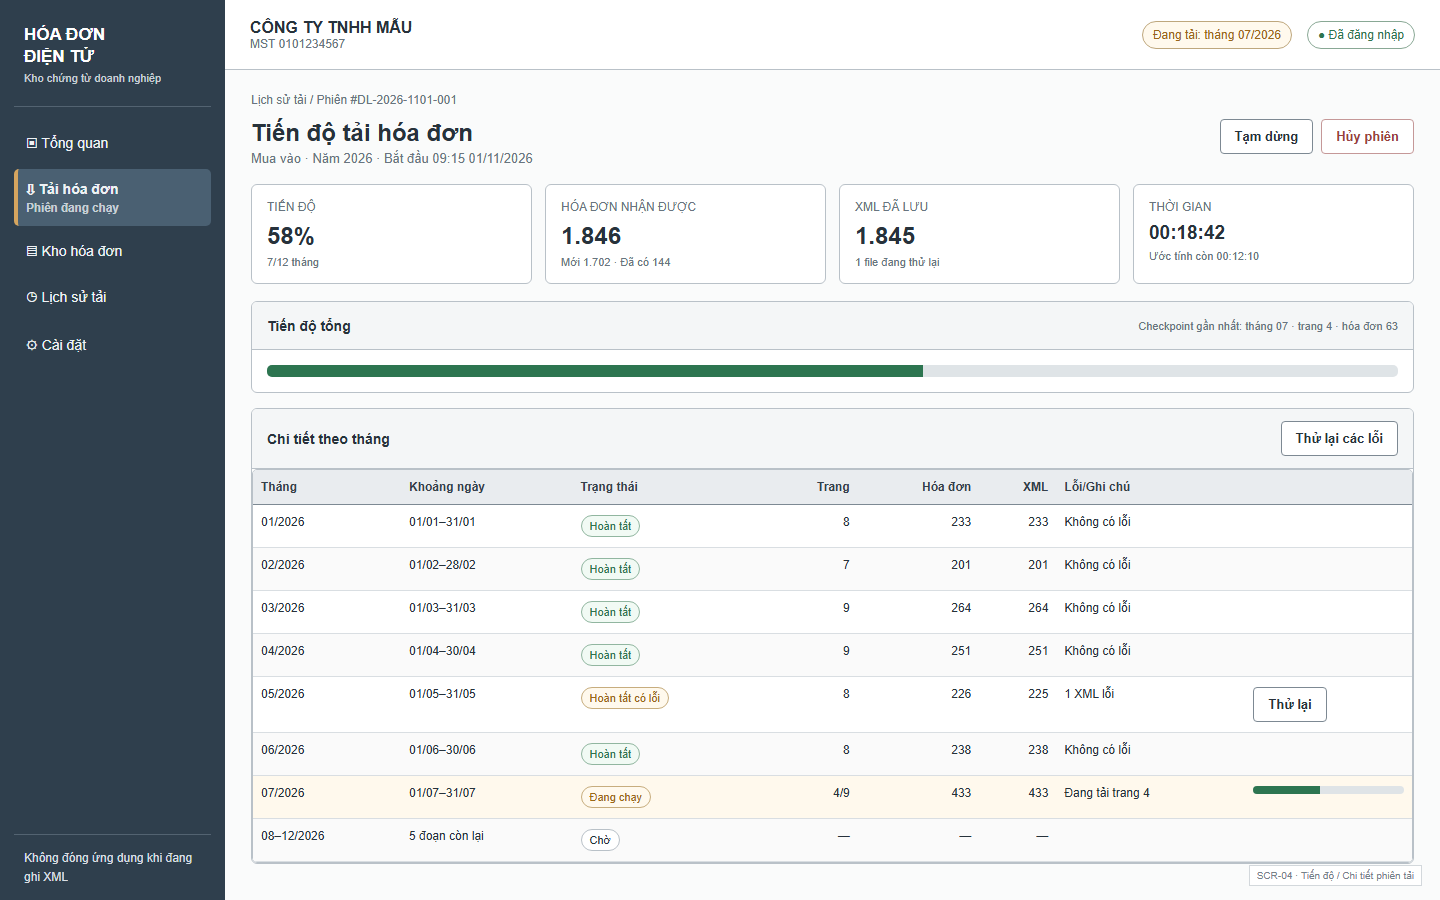
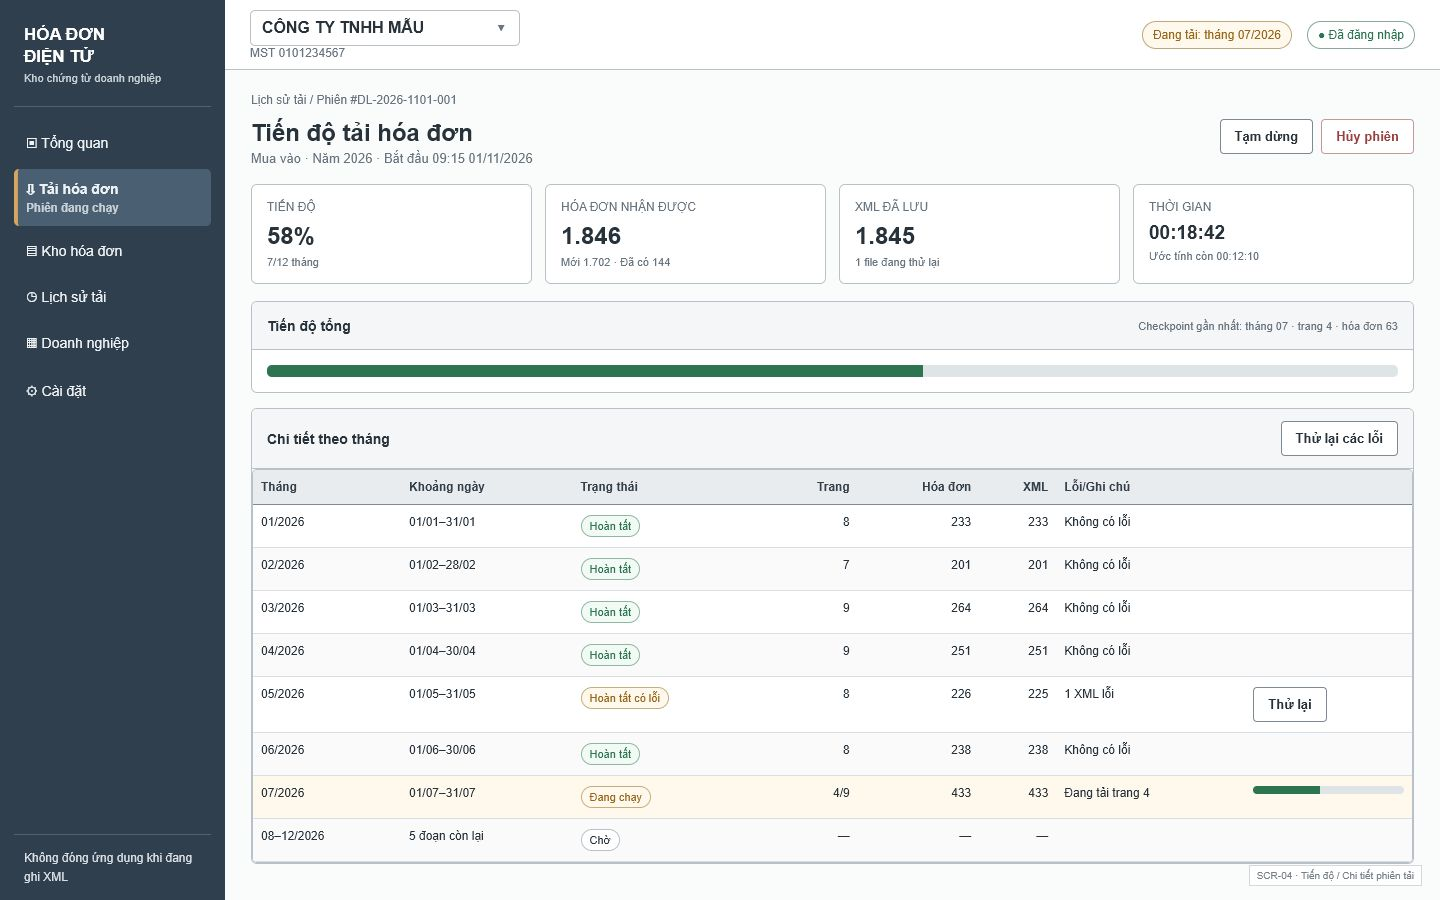
change licence

diff --git a/docs/wireframes/index.html b/docs/wireframes/index.html
@@ -45,6 +45,9 @@
     .app-main { display: grid; grid-template-rows: 70px 1fr; min-width: 0; }
     .app-header { border-bottom: 1px solid var(--line); display: flex; align-items: center; padding: 0 25px; gap: 15px; background: #fff; }
     .app-header .company { font-weight: bold; }
+    .app-header .company.service-company { cursor: pointer; border: 1px solid var(--line); border-radius: 5px; padding: 8px 34px 8px 11px; position: relative; background: #fff; min-width: 270px; }
+    .app-header .company.service-company::after { content: "▾"; position: absolute; right: 11px; top: 8px; color: var(--muted); }
+    .app-header .company.service-company:hover { border-color: var(--line-dark); background: #faf8f4; }
     .app-header .tax-code { color: var(--muted); font-size: 12px; }
     .header-spacer { flex: 1; }
     .session-status { border: 1px solid #89a895; color: var(--good); border-radius: 16px; padding: 6px 10px; font-size: 12px; }
@@ -117,6 +120,10 @@
     .compact-settings .panel-head { min-height: 42px; padding: 9px 15px; }
     .compact-settings .panel-body { padding: 11px 15px; }
     .compact-settings .storage-bar { margin: 8px 0; }
+    .mode-banner { display: flex; align-items: center; gap: 10px; border: 1px solid #91b6a0; background: #f1faf4; color: #285f43; border-radius: 5px; padding: 10px 13px; font-size: 12px; margin-bottom: 14px; }
+    .company-avatar { width: 34px; height: 34px; border-radius: 5px; display: grid; place-items: center; background: #e5e9ec; color: #40515d; font-weight: bold; }
+    .license-box { border: 1px dashed #9da8b1; background: #fafbfb; border-radius: 6px; padding: 18px; }
+    .readonly-note { border: 1px solid #cea2a2; background: #fff4f4; color: #7b3434; border-radius: 5px; padding: 10px 13px; font-size: 12px; }
     .login-screen { background: #eef1f3; display: grid; grid-template-rows: 76px 1fr 42px; }
     .login-top { background: #273746; color: #fff; display: flex; align-items: center; padding: 0 30px; gap: 12px; }
     .login-top b { font-size: 19px; }
@@ -150,6 +157,9 @@
     <a data-screen-link="SCR-07" href="?screen=SCR-07">07 Chứng từ</a>
     <a data-screen-link="SCR-08" href="?screen=SCR-08">08 Lịch sử</a>
     <a data-screen-link="SCR-09" href="?screen=SCR-09">09 Cài đặt</a>
+    <a data-screen-link="SCR-10" href="?screen=SCR-10">10 Doanh nghiệp</a>
+    <a data-screen-link="SCR-11" href="?screen=SCR-11">11 Thêm MST</a>
+    <a data-screen-link="SCR-12" href="?screen=SCR-12">12 Bản quyền</a>
     <span class="hint">HTML trao đổi kỹ thuật · 1440 × 900</span>
   </nav>
 
@@ -320,7 +330,7 @@
         <div class="content compact-settings">
           <div class="page-title"><div><h1>Cài đặt</h1><p>Thông tin doanh nghiệp, lưu trữ, sao lưu và kết nối</p></div><div class="page-actions"><a class="button primary">Lưu thay đổi</a></div></div>
           <div class="grid-2" style="grid-template-columns:260px 1fr">
-            <div class="panel"><div class="list-row" style="grid-template-columns:1fr"><b>Doanh nghiệp</b></div><div class="list-row" style="grid-template-columns:1fr;background:#f1f3f4"><b>Lưu trữ và sao lưu</b></div><div class="list-row" style="grid-template-columns:1fr"><b>Kết nối cổng Thuế</b></div><div class="list-row" style="grid-template-columns:1fr"><b>Nhật ký và chẩn đoán</b></div><div class="list-row" style="grid-template-columns:1fr"><b>Thông tin ứng dụng</b></div></div>
+            <div class="panel"><div class="list-row" style="grid-template-columns:1fr"><b>Doanh nghiệp đang hoạt động</b></div><div class="list-row" style="grid-template-columns:1fr;background:#f1f3f4"><b>Lưu trữ và sao lưu</b></div><div class="list-row" style="grid-template-columns:1fr"><b>Kết nối cổng Thuế</b></div><div class="list-row" style="grid-template-columns:1fr"><b>Nhật ký và chẩn đoán</b></div><a class="list-row" style="grid-template-columns:1fr;color:inherit;text-decoration:none" href="?screen=SCR-12"><b>Bản quyền ứng dụng →</b></a><div class="list-row" style="grid-template-columns:1fr"><b>Thông tin ứng dụng</b></div></div>
             <div>
               <div class="panel"><div class="panel-head"><b>Thư mục kho dữ liệu</b></div><div class="panel-body"><div class="field"><label>Đường dẫn gốc</label><div style="display:grid;grid-template-columns:1fr 110px;gap:8px"><div class="input">D:\DuLieu\HoaDonDienTu\0101234567</div><a class="button">Chọn thư mục</a></div></div><div class="alert" style="margin-top:12px;margin-bottom:0">Đã kiểm tra quyền đọc/ghi · Còn trống 184 GB</div></div></div>
               <div class="panel"><div class="panel-head"><b>Dung lượng sử dụng</b><a class="button" style="margin-left:auto">Mở thư mục kho</a></div><div class="panel-body"><div class="storage-bar"><span>Database</span><div class="progress"><span style="width:8%"></span></div><b class="right">84 MB</b></div><div class="storage-bar"><span>XML</span><div class="progress"><span style="width:72%"></span></div><b class="right">7,4 GB</b></div><div class="storage-bar"><span>PDF đã tạo</span><div class="progress"><span style="width:24%"></span></div><b class="right">2,1 GB</b></div><div class="storage-bar"><span>File xuất</span><div class="progress"><span style="width:12%"></span></div><b class="right">1,2 GB</b></div></div></div>
@@ -333,6 +343,81 @@
     </div><div class="screen-ref">SCR-09 · Cài đặt</div>
   </section>
 
+  <section class="screen" data-screen="SCR-10" hidden>
+    <div class="app-shell">
+      <aside class="sidebar"><div class="brand"><b>HÓA ĐƠN<br>ĐIỆN TỬ</b><span>Bản dịch vụ kế toán</span></div><nav class="side-nav"><a href="?screen=SCR-02">▣ Tổng quan</a><a href="?screen=SCR-03">⇩ Tải hóa đơn</a><a href="?screen=SCR-05">▤ Kho hóa đơn</a><a href="?screen=SCR-08">◷ Lịch sử tải</a><a class="active" href="?screen=SCR-10">▦ Doanh nghiệp</a><a href="?screen=SCR-09">⚙ Cài đặt</a></nav><div class="sidebar-bottom">ServiceMode · Licence hợp lệ<br>Chỉ 1 MST hoạt động</div></aside>
+      <main class="app-main">
+        <header class="app-header"><div><div class="company service-company" data-company-switch>CÔNG TY TNHH MẪU</div><div class="tax-code">MST 0101234567 · Đang hoạt động</div></div><div class="header-spacer"></div><span class="tag good">Bản dịch vụ</span><span class="session-status">● Đã đăng nhập</span></header>
+        <div class="content">
+          <div class="page-title"><div><h1>Quản lý doanh nghiệp</h1><p>Chọn một MST để làm việc; mỗi doanh nghiệp sử dụng kho dữ liệu riêng</p></div><div class="page-actions"><a class="button" href="?screen=SCR-09">Cài đặt kho</a><a class="button primary" href="?screen=SCR-11">Thêm doanh nghiệp</a></div></div>
+          <div class="mode-banner"><b>✓ Licence dịch vụ đang hoạt động</b><span>Không giới hạn số MST trên máy này · chỉ một MST được mở tại một thời điểm</span><a href="?screen=SCR-12" style="margin-left:auto;color:inherit">Xem bản quyền</a></div>
+          <div class="cards">
+            <div class="card"><div class="label">Doanh nghiệp đang quản lý</div><div class="value">18</div><div class="sub">Không giới hạn theo licence</div></div>
+            <div class="card"><div class="label">Đã cập nhật trong tháng</div><div class="value">14</div><div class="sub">4 doanh nghiệp cần kiểm tra</div></div>
+            <div class="card"><div class="label">Tổng dung lượng</div><div class="value">86,4 GB</div><div class="sub">Các kho được cách ly</div></div>
+            <div class="card"><div class="label">MST đang hoạt động</div><div class="value" style="font-size:17px">0101234567</div><div class="sub">Công ty TNHH Mẫu</div></div>
+          </div>
+          <div class="panel"><div class="panel-body"><div class="toolbar" style="margin:0"><div class="input wide placeholder" style="width:420px">Tìm theo tên doanh nghiệp hoặc mã số thuế</div><div class="select" style="width:190px">Mọi trạng thái ▾</div><a class="button">Tìm kiếm</a><span class="muted small" style="margin-left:auto">Số liệu tổng quan được lưu đệm khi đóng kho</span></div></div></div>
+          <div class="table-wrap"><table><thead><tr><th>Doanh nghiệp</th><th>MST</th><th>Kỳ tải gần nhất</th><th>Cập nhật</th><th class="right">Hóa đơn</th><th class="right">Dung lượng</th><th>Trạng thái</th><th>Thao tác</th></tr></thead><tbody>
+            <tr><td><div style="display:flex;gap:9px"><span class="company-avatar">M</span><div><b>Công ty TNHH Mẫu</b><div class="muted small">D:\DuLieu\HDDT\0101234567</div></div></div></td><td>0101234567</td><td>Tháng 10/2026</td><td>01/11/2026 09:42</td><td class="right">24.862</td><td class="right">10,8 GB</td><td><span class="tag good">Đang làm việc</span></td><td><a class="button" href="?screen=SCR-02">Mở</a></td></tr>
+            <tr><td><div style="display:flex;gap:9px"><span class="company-avatar">A</span><div><b>Công ty Cổ phần An Phú</b><div class="muted small">D:\DuLieu\HDDT\0312345678</div></div></div></td><td>0312345678</td><td>Quý 3/2026</td><td>31/10/2026 16:20</td><td class="right">18.415</td><td class="right">7,6 GB</td><td><span class="tag warn">Chưa đăng nhập</span></td><td><a class="button">Làm việc</a></td></tr>
+            <tr><td><div style="display:flex;gap:9px"><span class="company-avatar">B</span><div><b>Công ty TNHH Bình Minh</b><div class="muted small">E:\KhachHang\0209988776</div></div></div></td><td>0209988776</td><td>Tháng 10/2026</td><td>29/10/2026 11:05</td><td class="right">9.208</td><td class="right">4,1 GB</td><td><span class="tag bad">Cần xử lý</span></td><td><a class="button">Chi tiết</a></td></tr>
+            <tr><td><div style="display:flex;gap:9px"><span class="company-avatar">T</span><div><b>Công ty Thương mại Thành Công</b><div class="muted small">D:\DuLieu\HDDT\0105566778</div></div></div></td><td>0105566778</td><td>Năm 2025</td><td>15/10/2026 08:30</td><td class="right">31.704</td><td class="right">13,2 GB</td><td><span class="tag">Sẵn sàng</span></td><td><a class="button">Làm việc</a></td></tr>
+          </tbody></table></div>
+          <div class="pager"><span>Hiển thị 1–4 trong 18 doanh nghiệp</span><span><a class="button disabled">Trước</a> <a class="button">Sau</a></span></div>
+        </div>
+      </main>
+    </div><div class="screen-ref">SCR-10 · Quản lý doanh nghiệp</div>
+  </section>
+
+  <section class="screen" data-screen="SCR-11" hidden>
+    <div class="app-shell">
+      <aside class="sidebar"><div class="brand"><b>HÓA ĐƠN<br>ĐIỆN TỬ</b><span>Bản dịch vụ kế toán</span></div><nav class="side-nav"><a href="?screen=SCR-02">▣ Tổng quan</a><a href="?screen=SCR-03">⇩ Tải hóa đơn</a><a href="?screen=SCR-05">▤ Kho hóa đơn</a><a href="?screen=SCR-08">◷ Lịch sử tải</a><a class="active" href="?screen=SCR-10">▦ Doanh nghiệp</a><a href="?screen=SCR-09">⚙ Cài đặt</a></nav><div class="sidebar-bottom">ServiceMode · Licence hợp lệ<br>Tạo một kho độc lập</div></aside>
+      <main class="app-main">
+        <header class="app-header"><div><div class="company service-company" data-company-switch>CÔNG TY TNHH MẪU</div><div class="tax-code">MST 0101234567 · Đang hoạt động</div></div><div class="header-spacer"></div><span class="tag good">Bản dịch vụ</span><span class="session-status">● Đã đăng nhập</span></header>
+        <div class="content">
+          <div class="breadcrumb"><a href="?screen=SCR-10">Quản lý doanh nghiệp</a> / Thêm doanh nghiệp</div>
+          <div class="page-title"><div><h1>Thêm doanh nghiệp</h1><p>Tạo hồ sơ và kho dữ liệu riêng cho một mã số thuế</p></div><div class="page-actions"><a class="button" href="?screen=SCR-10">Hủy</a><a class="button primary" href="?screen=SCR-01">Tạo và chuyển sang MST này</a></div></div>
+          <div class="grid-2" style="grid-template-columns:1.25fr .75fr">
+            <div>
+              <div class="panel"><div class="panel-head"><b>1. Thông tin doanh nghiệp</b><span class="tag" style="margin-left:auto">Bắt buộc</span></div><div class="panel-body"><div class="field-grid"><div class="field"><label>Mã số thuế</label><div class="input">0319988776</div><span class="muted small">Dùng để kiểm tra phiên đăng nhập và cách ly kho</span></div><div class="field"><label>Tên hiển thị</label><div class="input">Công ty TNHH Minh Long</div><span class="muted small">Có thể cập nhật sau khi đăng nhập</span></div></div></div></div>
+              <div class="panel"><div class="panel-head"><b>2. Kho dữ liệu riêng</b></div><div class="panel-body"><div class="field"><label>Thư mục kho</label><div style="display:grid;grid-template-columns:1fr 120px;gap:8px"><div class="input">D:\DuLieu\HDDT\0319988776</div><a class="button">Chọn thư mục</a></div></div><div class="alert" style="margin-top:13px;margin-bottom:0">Thư mục sẽ chứa <b>company.db</b>, XML, PDF cache, file xuất, bản sao lưu và log của riêng MST 0319988776.</div></div></div>
+              <div class="panel"><div class="panel-head"><b>3. Kiểm tra trước khi tạo</b></div><div class="panel-body"><div class="list-row" style="grid-template-columns:30px 1fr 100px"><b>✓</b><span>MST chưa tồn tại trong danh mục</span><span class="tag good">Hợp lệ</span></div><div class="list-row" style="grid-template-columns:30px 1fr 100px"><b>✓</b><span>Thư mục có quyền đọc/ghi và còn trống 184 GB</span><span class="tag good">Hợp lệ</span></div><div class="list-row" style="grid-template-columns:30px 1fr 100px"><b>✓</b><span>Licence dịch vụ đang hoạt động trên máy này</span><span class="tag good">Hợp lệ</span></div></div></div>
+            </div>
+            <div>
+              <div class="panel"><div class="panel-head"><b>Sau khi tạo</b></div><div class="panel-body"><ol class="small" style="line-height:2;margin:0;padding-left:20px"><li>Dừng an toàn tác vụ của MST hiện tại nếu có.</li><li>Xóa token hiện tại khỏi bộ nhớ.</li><li>Đóng SQLite của MST hiện tại.</li><li>Tạo và mở kho 0319988776.</li><li>Mở SCR-01 để đăng nhập cổng Thuế.</li><li>Chỉ chấp nhận phiên có đúng MST 0319988776.</li></ol></div></div>
+              <div class="readonly-note"><b>Không lưu tài khoản hoặc mật khẩu.</b><br>Việc thêm hồ sơ chỉ tạo kho dữ liệu; người dùng vẫn phải đăng nhập thủ công và tự nhập CAPTCHA.</div>
+            </div>
+          </div>
+        </div>
+      </main>
+    </div><div class="screen-ref">SCR-11 · Thêm / sửa doanh nghiệp</div>
+  </section>
+
+  <section class="screen" data-screen="SCR-12" hidden>
+    <div class="app-shell">
+      <aside class="sidebar"><div class="brand"><b>HÓA ĐƠN<br>ĐIỆN TỬ</b><span>Kho chứng từ doanh nghiệp</span></div><nav class="side-nav"><a href="?screen=SCR-02">▣ Tổng quan</a><a href="?screen=SCR-03">⇩ Tải hóa đơn</a><a href="?screen=SCR-05">▤ Kho hóa đơn</a><a href="?screen=SCR-08">◷ Lịch sử tải</a><a class="active" href="?screen=SCR-09">⚙ Cài đặt</a></nav><div class="sidebar-bottom">Phiên bản ứng dụng 1.1<br>Chế độ chuẩn</div></aside>
+      <main class="app-main">
+        <header class="app-header"><div><div class="company">CÔNG TY TNHH MẪU</div><div class="tax-code">MST 0101234567</div></div><div class="header-spacer"></div><span class="session-status">● Đã đăng nhập</span></header>
+        <div class="content">
+          <div class="breadcrumb"><a href="?screen=SCR-09">Cài đặt</a> / Bản quyền</div>
+          <div class="page-title"><div><h1>Bản quyền ứng dụng</h1><p>Kích hoạt licence được nhà cung cấp cấp cho máy này</p></div><div class="page-actions"><a class="button" href="?screen=SCR-09">Quay lại cài đặt</a></div></div>
+          <div class="grid-2" style="grid-template-columns:.8fr 1.2fr">
+            <div>
+              <div class="panel"><div class="panel-head"><b>Trạng thái hiện tại</b></div><div class="panel-body"><div style="display:flex;align-items:center;gap:12px;margin-bottom:16px"><span class="company-avatar">S</span><div><b>Chế độ chuẩn</b><div class="muted small">Không có licence mở rộng trên máy này</div></div></div><div class="kv"><div class="k">Thiết bị</div><div>DESKTOP-KETOAN-01</div><div class="k">Mã máy</div><div>84B2-••••-19C7</div><div class="k">Xác thực gần nhất</div><div>Chưa kích hoạt</div><div class="k">Phiên bản</div><div>1.1.0 · Schema v1</div></div></div></div>
+              <div class="alert">Mục kích hoạt luôn hiển thị. Các chức năng tương ứng với licence chỉ xuất hiện sau khi key được máy chủ xác thực thành công.</div>
+            </div>
+            <div>
+              <div class="panel"><div class="panel-head"><b>Kích hoạt licence</b><span class="tag" style="margin-left:auto">Yêu cầu Internet</span></div><div class="panel-body"><div class="license-box"><div class="field"><label>Licence key</label><div class="input" style="font-family:Consolas,monospace;letter-spacing:1px">HDDT-SVC-••••-••••-••••</div><span class="muted small">Key được kiểm tra trực tuyến và gắn với máy này. Không gửi MST hoặc dữ liệu hóa đơn.</span></div><div style="display:flex;justify-content:flex-end;gap:8px;margin-top:15px"><a class="button">Kiểm tra kết nối</a><a class="button primary" href="?screen=SCR-10">Kích hoạt</a></div></div></div></div>
+              <div class="panel"><div class="panel-head"><b>Dữ liệu gửi khi kích hoạt</b></div><div class="panel-body"><table><tbody><tr><td><b>Licence key</b></td><td>Xác định quyền đã mua</td></tr><tr><td><b>Mã máy đã băm</b></td><td>Ràng buộc licence với thiết bị</td></tr><tr><td><b>Phiên bản ứng dụng</b></td><td>Kiểm tra tương thích entitlement</td></tr><tr><td><b>Không gửi</b></td><td>MST, danh sách khách hàng, hóa đơn, token Thuế, đường dẫn kho</td></tr></tbody></table></div></div>
+              <div class="panel"><div class="panel-head"><b>Sau khi kích hoạt</b></div><div class="panel-body small">Ứng dụng kiểm tra chữ ký, lưu entitlement được bảo vệ theo máy và tự mở các chức năng được cấp phép mà không cần cài đặt lại. Khi máy chủ tạm thời không truy cập được, licence đã xác thực có thể tiếp tục hoạt động tối đa 30 ngày.</div></div>
+            </div>
+          </div>
+        </div>
+      </main>
+    </div><div class="screen-ref">SCR-12 · Kích hoạt / quản lý licence</div>
+  </section>
+
   <script>
     (function () {
       var params = new URLSearchParams(window.location.search);
@@ -340,6 +425,28 @@
       var capture = params.get('capture') === '1';
       var available = Array.prototype.map.call(document.querySelectorAll('[data-screen]'), function (el) { return el.getAttribute('data-screen'); });
       if (available.indexOf(screen) < 0) screen = 'SCR-02';
+      if (screen !== 'SCR-12') {
+        document.querySelectorAll('.app-header .company').forEach(function (el) {
+          el.classList.add('service-company');
+          el.setAttribute('data-company-switch', '');
+          el.setAttribute('title', 'Mở danh sách doanh nghiệp');
+          el.setAttribute('tabindex', '0');
+        });
+        document.querySelectorAll('.side-nav').forEach(function (nav) {
+          if (nav.querySelector('a[href*="SCR-10"]')) return;
+          var settings = nav.querySelector('a[href*="SCR-09"]');
+          var companyLink = document.createElement('a');
+          companyLink.href = '?screen=SCR-10';
+          companyLink.textContent = '▦ Doanh nghiệp';
+          nav.insertBefore(companyLink, settings);
+        });
+      }
+      document.querySelectorAll('[data-company-switch]').forEach(function (el) {
+        el.addEventListener('click', function () { window.location.href = '?screen=SCR-10'; });
+        el.addEventListener('keydown', function (event) {
+          if (event.key === 'Enter' || event.key === ' ') window.location.href = '?screen=SCR-10';
+        });
+      });
       if (capture) document.body.classList.add('capture');
       document.querySelectorAll('[data-screen]').forEach(function (el) { el.hidden = el.getAttribute('data-screen') !== screen; });
       document.querySelectorAll('[data-screen-link]').forEach(function (el) { if (el.getAttribute('data-screen-link') === screen) el.classList.add('active'); });

diff --git a/docs/wireframes/README.md b/docs/wireframes/README.md
@@ -34,6 +34,9 @@ index.html?screen=SCR-05&capture=1
 | SCR-07 | Xem chứng từ XML/PDF | [Mở](index.html?screen=SCR-07) | [Ảnh](png/SCR-07-viewer.png) |
 | SCR-08 | Lịch sử tải | [Mở](index.html?screen=SCR-08) | [Ảnh](png/SCR-08-history.png) |
 | SCR-09 | Cài đặt | [Mở](index.html?screen=SCR-09) | [Ảnh](png/SCR-09-settings.png) |
+| SCR-10 | Quản lý doanh nghiệp | [Mở](index.html?screen=SCR-10) | [Ảnh](png/SCR-10-companies.png) |
+| SCR-11 | Thêm/sửa doanh nghiệp | [Mở](index.html?screen=SCR-11) | [Ảnh](png/SCR-11-company-edit.png) |
+| SCR-12 | Kích hoạt/quản lý licence | [Mở](index.html?screen=SCR-12) | [Ảnh](png/SCR-12-license.png) |
 
 ## Luồng tham chiếu
 
@@ -46,6 +49,13 @@ SCR-01 Đăng nhập
         └─> SCR-09 Cài đặt
 
 SCR-04 --token hết hạn--> SCR-01 --đăng nhập lại--> SCR-04/checkpoint
+
+StandardMode: SCR-09 --> SCR-12 Kích hoạt licence
+                              └─> SCR-10 Quản lý doanh nghiệp
+                                      ├─> SCR-11 Thêm/sửa doanh nghiệp --> SCR-01 Đăng nhập
+                                      └─> SCR-02 Tổng quan của MST được chọn
+
+SCR-02..09 --bộ chọn MST--> SCR-10 --chuyển MST an toàn--> SCR-02
 ```
 
 ## Quy ước
@@ -54,9 +64,11 @@ SCR-04 --token hết hạn--> SCR-01 --đăng nhập lại--> SCR-04/checkpoint
 - Dữ liệu doanh nghiệp/hóa đơn trong wireframe là dữ liệu minh họa.
 - Thanh điều hướng bên trái là phương án đã được chọn.
 - XML được lưu tự động; PDF xuất hiện sau khi người dùng xem hoặc in.
+- SCR-02 đến SCR-11 mô tả ServiceMode với bộ chọn MST; SCR-12 mô tả điểm kích hoạt luôn thấy trong StandardMode.
+- Mỗi MST chỉ dùng một thư mục và SQLite riêng; wireframe không có màn hình trộn hóa đơn nhiều doanh nghiệp.
+- Chuyển MST yêu cầu dừng an toàn tác vụ và đóng phiên/database hiện tại trước khi mở kho mới.
 - Mã `SCR-xx` phải được giữ nhất quán giữa SRS, ticket triển khai, test case và UI automation.
 
 ## Cập nhật ảnh PNG
 
 `index.html` là nguồn duy nhất. Sau khi sửa HTML, xuất lại PNG bằng Chrome/Edge headless ở kích thước 1440 × 900 với URL `?screen=SCR-xx&capture=1`. Không chỉnh sửa PNG thủ công vì sẽ làm hai định dạng không đồng bộ.
-

diff --git a/docs/README.md b/docs/README.md
@@ -8,6 +8,8 @@ Index of where context lives. Keep files short; link rather than duplicate.
 - [Wireframe HTML tương tác](wireframes/index.html)
 - [Danh mục wireframe PNG](wireframes/README.md)
 
+SRS và wireframe hiện mô tả cả `StandardMode` một MST và `ServiceMode` đa MST kích hoạt bằng licence theo máy. ServiceMode chỉ mở một MST tại một thời điểm và cách ly SQLite/thư mục theo từng doanh nghiệp.
+
 | Folder | Put here |
 |---|---|
 | `requirements/` | PM requirements, feature specs, acceptance criteria (source: portal "Tra cứu" behaviour + period-selection extension) |
